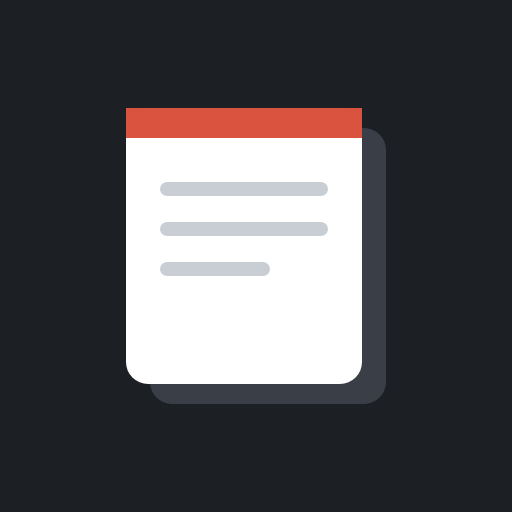
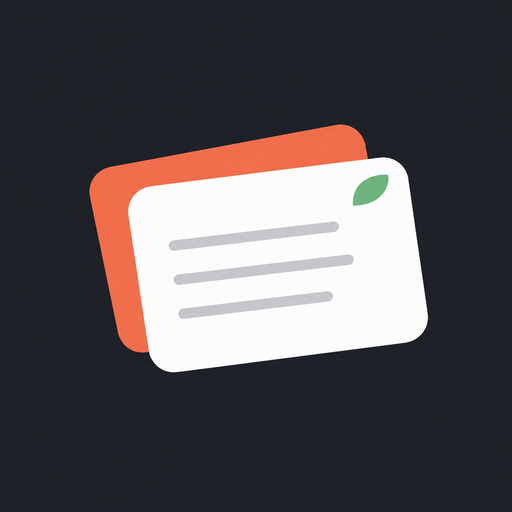
アイコンをChatGPTで作った画像に差し替え
Claude-Session: https://claude.ai/code/session_01CY3P7rQc2FXQAicGLfuhXu

Changed region(s): [[0.1562, 0.1875, 0.8438, 0.8125], [0.3438, 0.5625, 0.6562, 0.625]]

diff --git a/sw.js b/sw.js
@@ -1,5 +1,5 @@
 // 入口ページだけをキャッシュして、電波が弱くてもすぐ開けるようにする
-const CACHE = 'momo-note-v1';
+const CACHE = 'momo-note-v2';
 const FILES = ['./', 'index.html', 'manifest.webmanifest', 'icons/icon-192.png', 'icons/apple-touch-icon.png'];
 self.addEventListener('install', e => e.waitUntil(caches.open(CACHE).then(c => c.addAll(FILES)).then(() => self.skipWaiting())));
 self.addEventListener('activate', e => e.waitUntil(caches.keys().then(ks => Promise.all(ks.filter(k => k !== CACHE).map(k => caches.delete(k)))).then(() => self.clients.claim())));
